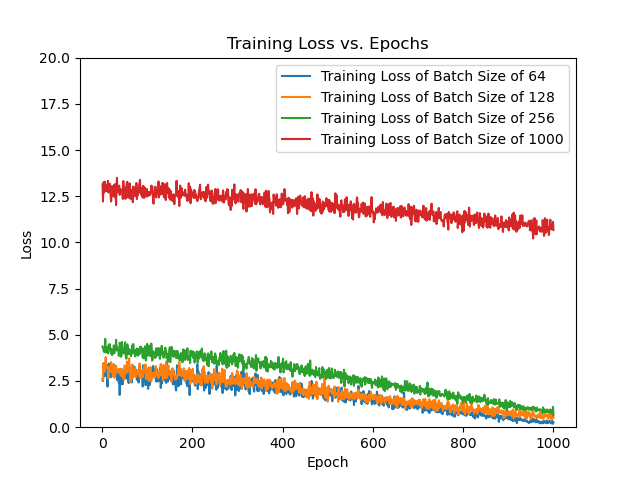
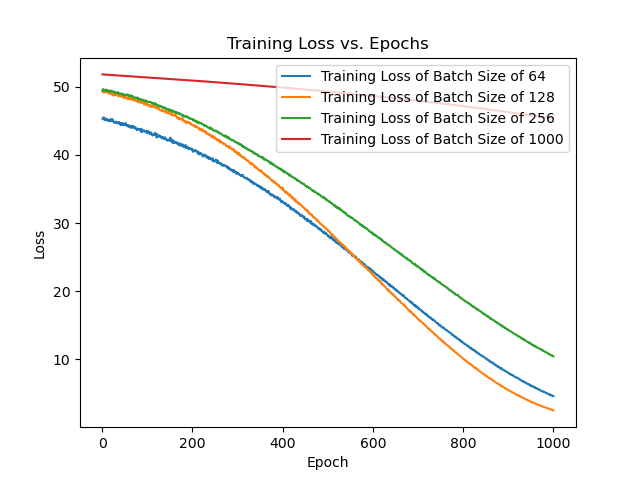
figs for task1.4

diff --git a/task1.py b/task1.py
@@ -115,8 +115,7 @@ for batchsize in batch_sizes:
             loss = criterion(output, target)
             loss.backward()
             optimizer.step()
-    
-        epoch_loss += loss.item()
+            epoch_loss += loss.item()
     
         train_losses.append(epoch_loss / len(train_loader))
         print(f'Epoch {epoch+1}/{epochs}, Loss: {train_losses[-1]:.6f}')
@@ -206,7 +205,6 @@ plt.plot(np.linspace(1, epochs, epochs), train_losses_batchsize_1000, label='Tra
 plt.xlabel('Epoch')
 plt.ylabel('Loss')
 plt.title('Training Loss vs. Epochs')
-plt.ylim([0,20])
 plt.legend(loc='upper right')
 plt.savefig(f'Figures/task1.4/Shallow Network/Training_Loss')
 plt.show()
